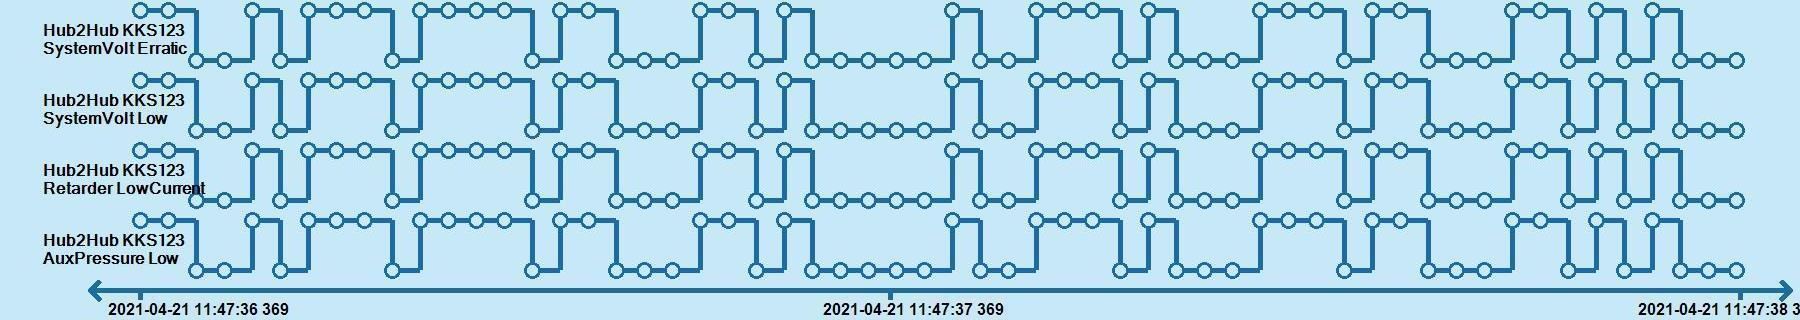
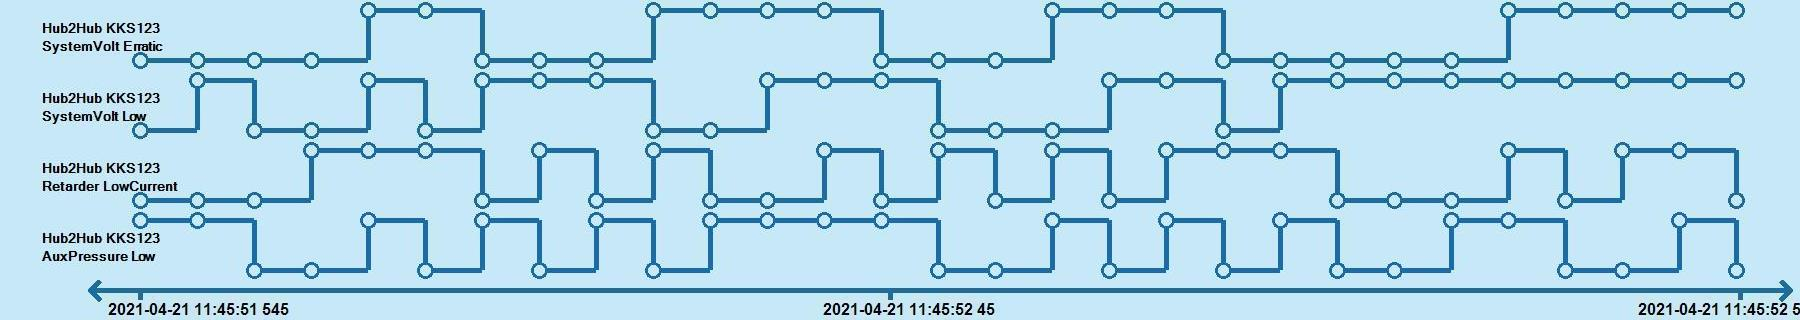
210427 2357

diff --git a/Infrastructure/DataAccess/IOKeepTableDataAccess.cs b/Infrastructure/DataAccess/IOKeepTableDataAccess.cs
@@ -34,18 +34,71 @@ namespace Infrastructure.DataAccess
             return XCoordinateList;
         }
 
+
+        //DETTA ÄR EN DÅLIG LÖSNING. DEN ÄR TEMPORÄR. NÄR OM SYSTEMET GÅR LIVE KAN DET VARA 1000 SIGNALER...
+        //ANTINGEN GÖR JAG REFLEKTION
+        //ELLER SÅ NÅGON SQL/EF LÖSNING. KANSKE FÅR VI LÖSNING PÅ UTB...SÅ MYCKET ATT GÖRA OCH SÅ LITE TID...
         public List<Boolean> IOYCoordinatesFromSignal_FromIOKeepTable(string Signal)
         {
             List<Boolean> YCoordinateList = new List<Boolean>();
             List<IOSample> IOSampleList = eFAccessIOKeepTable.IOKeepTable.ToList();
 
-            //jimmyhaglund har lösning. Fixa asap...tight deadline...
-
-            //Hårdkodad tmp lösning.
-            foreach (IOSample item2 in IOSampleList)
+            foreach (IOSample iOSample in IOSampleList)
             {
-                YCoordinateList.Add(item2.Hub2Hub_KKS123_SystemVolt_Erratic);
-                //Debug.WriteLine($"item.Hub2Hub_KKS123_SystemVolt_Erratic = {item2.Hub2Hub_KKS123_SystemVolt_Erratic}");
+                switch (Signal)
+                {
+                    case "Hub2Hub_KKS123_AuxPressure_Low":
+                        YCoordinateList.Add(iOSample.Hub2Hub_KKS123_AuxPressure_Low);
+                        break;
+                    case "Hub2Hub_KKS123_Retarder_LowCurrent":
+                        YCoordinateList.Add(iOSample.Hub2Hub_KKS123_Retarder_LowCurrent);
+                        break;
+                    case "Hub2Hub_KKS123_SystemVolt_Erratic":
+                        YCoordinateList.Add(iOSample.Hub2Hub_KKS123_SystemVolt_Erratic);
+                        break;
+                    case "Hub2Hub_KKS123_SystemVolt_Low":
+                        YCoordinateList.Add(iOSample.Hub2Hub_KKS123_SystemVolt_Low);
+                        break;
+                    case "Panna_flisinmatning_skruv1_Motorskydd":
+                        YCoordinateList.Add(iOSample.Panna_flisinmatning_skruv1_Motorskydd);
+                        break;
+                    case "Panna_flisinmatning_skruv1_Nodstop":
+                        YCoordinateList.Add(iOSample.Panna_flisinmatning_skruv1_Nodstop);
+                        break;
+                    case "Panna_flisinmatning_skruv1_Sakerhetsbrytare":
+                        YCoordinateList.Add(iOSample.Panna_flisinmatning_skruv1_Sakerhetsbrytare);
+                        break;
+                    case "Panna_flisinmatning_skruv1_Varvtalsvakt":
+                        YCoordinateList.Add(iOSample.Panna_flisinmatning_skruv1_Varvtalsvakt);
+                        break;
+                    case "Karlatornet_Brandlarm_Hiss1_Aktivt":
+                        YCoordinateList.Add(iOSample.Karlatornet_Brandlarm_Hiss1_Aktivt);
+                        break;
+                    case "Karlatornet_Brandlarm_Hiss2_Aktivt":
+                        YCoordinateList.Add(iOSample.Karlatornet_Brandlarm_Hiss2_Aktivt);
+                        break;
+                    case "Karlatornet_Ventilation_Franluft_HogTemp":
+                        YCoordinateList.Add(iOSample.Karlatornet_Ventilation_Franluft_HogTemp);
+                        break;
+                    case "Karlatornet_Ventilation_Franluft_LagTemp":
+                        YCoordinateList.Add(iOSample.Karlatornet_Ventilation_Franluft_LagTemp);
+                        break;
+                    case "Vestas_Verk12_Koppling_HogTemp":
+                        YCoordinateList.Add(iOSample.Vestas_Verk12_Koppling_HogTemp);
+                        break;
+                    case "Vestas_Verk12_Koppling_LagOljeNiva":
+                        YCoordinateList.Add(iOSample.Vestas_Verk12_Koppling_LagOljeNiva);
+                        break;
+                    case "Vestas_Verk12_Koppling_TryckAvvikelse":
+                        YCoordinateList.Add(iOSample.Vestas_Verk12_Koppling_TryckAvvikelse);
+                        break;
+                    case "Vestas_Verk12_Vaderstation_WatchDog":
+                        YCoordinateList.Add(iOSample.Vestas_Verk12_Vaderstation_WatchDog);
+                        break;
+                    default:
+                        Debug.WriteLine($"In IOYCoordinatesFromSignal_FromIOKeepTable...");
+                        break;
+                }
             }
             return YCoordinateList;
         }
